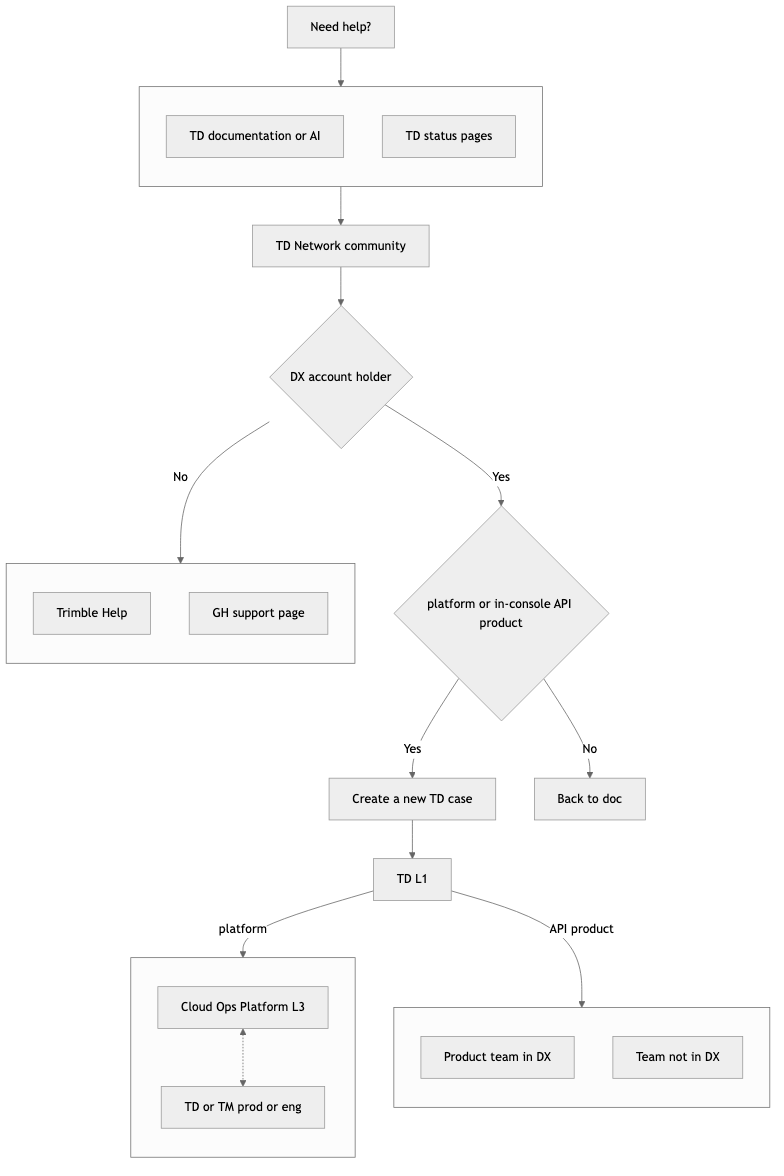
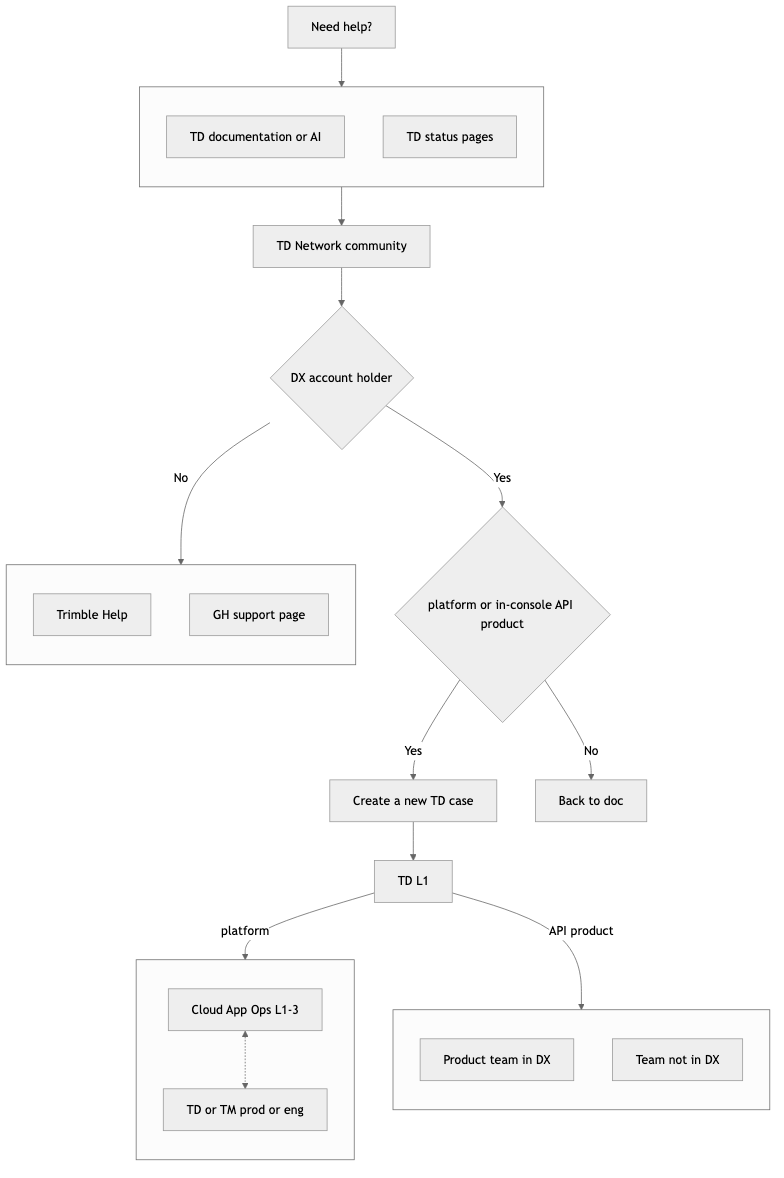
help

diff --git a/image/developer/help.md b/image/developer/help.md
@@ -32,7 +32,7 @@ flowchart TD
 
 	subgraph platbranch[" "]
 		direction TB
-		cloudops["Cloud Ops Platform L3"]
+		cloudops["Cloud App Ops L1-3"]
 		tdmpl["TD or TM prod or eng"]
 		cloudops <-.-> tdmpl
 	end
